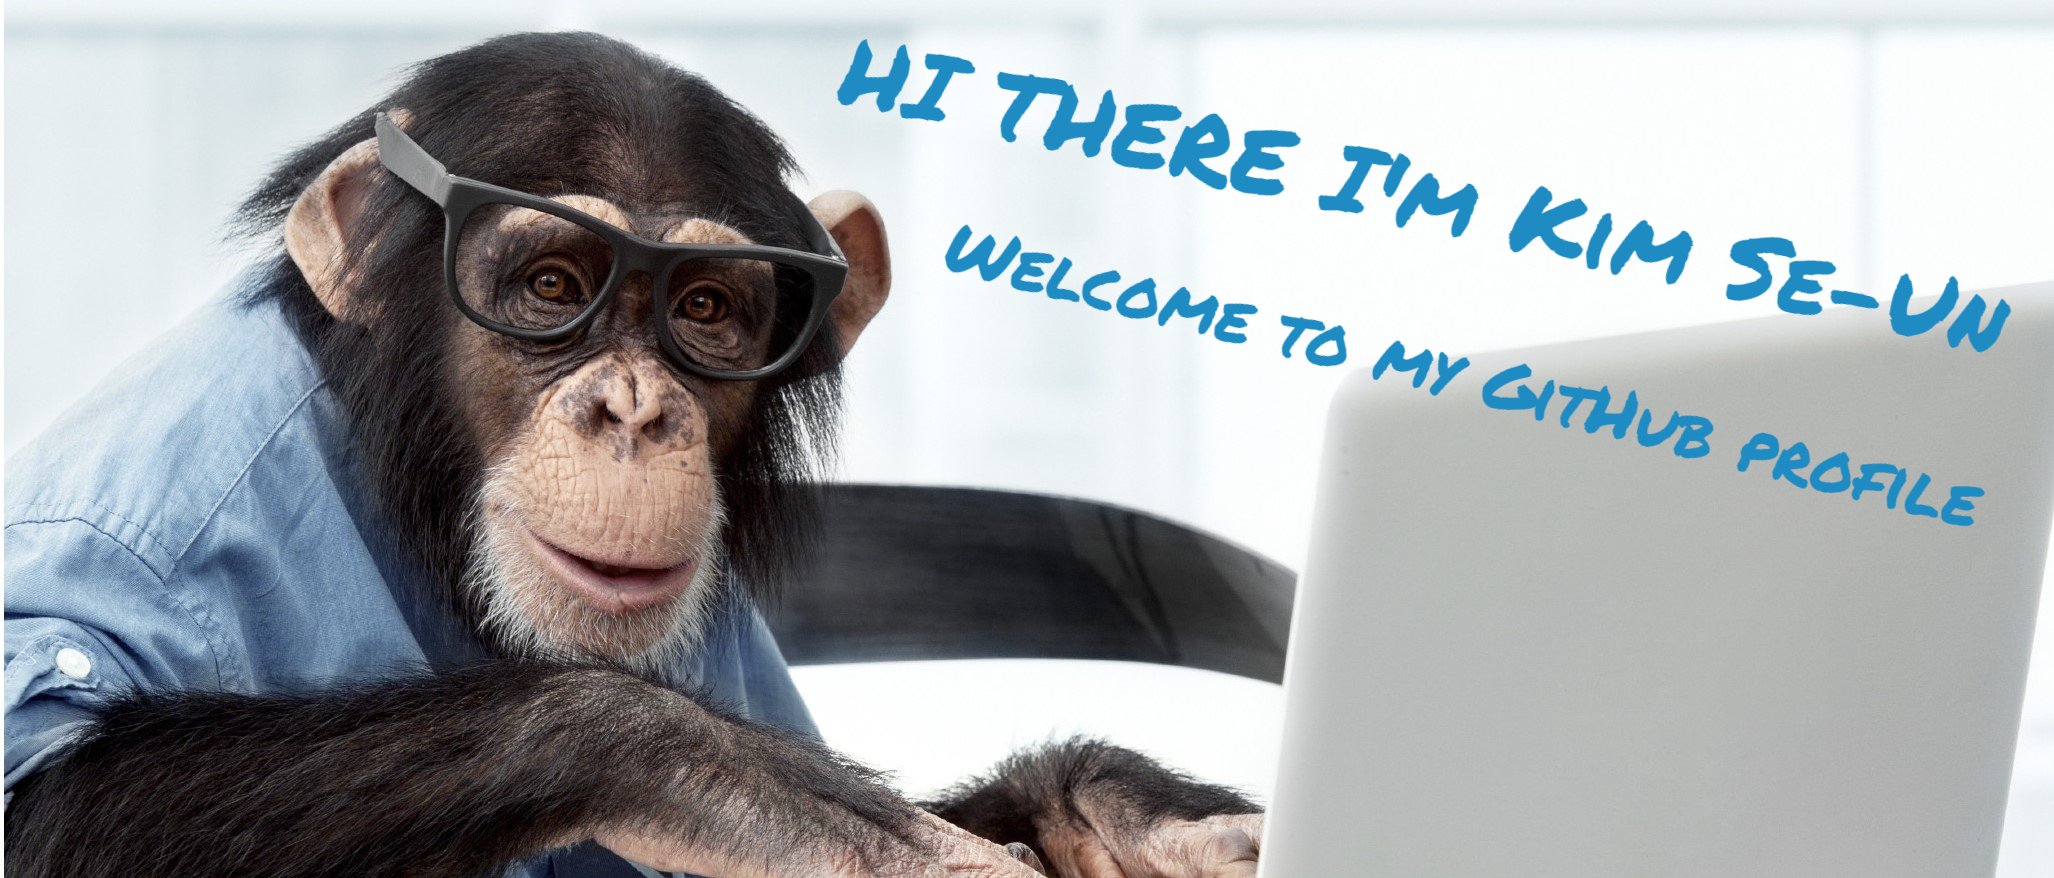
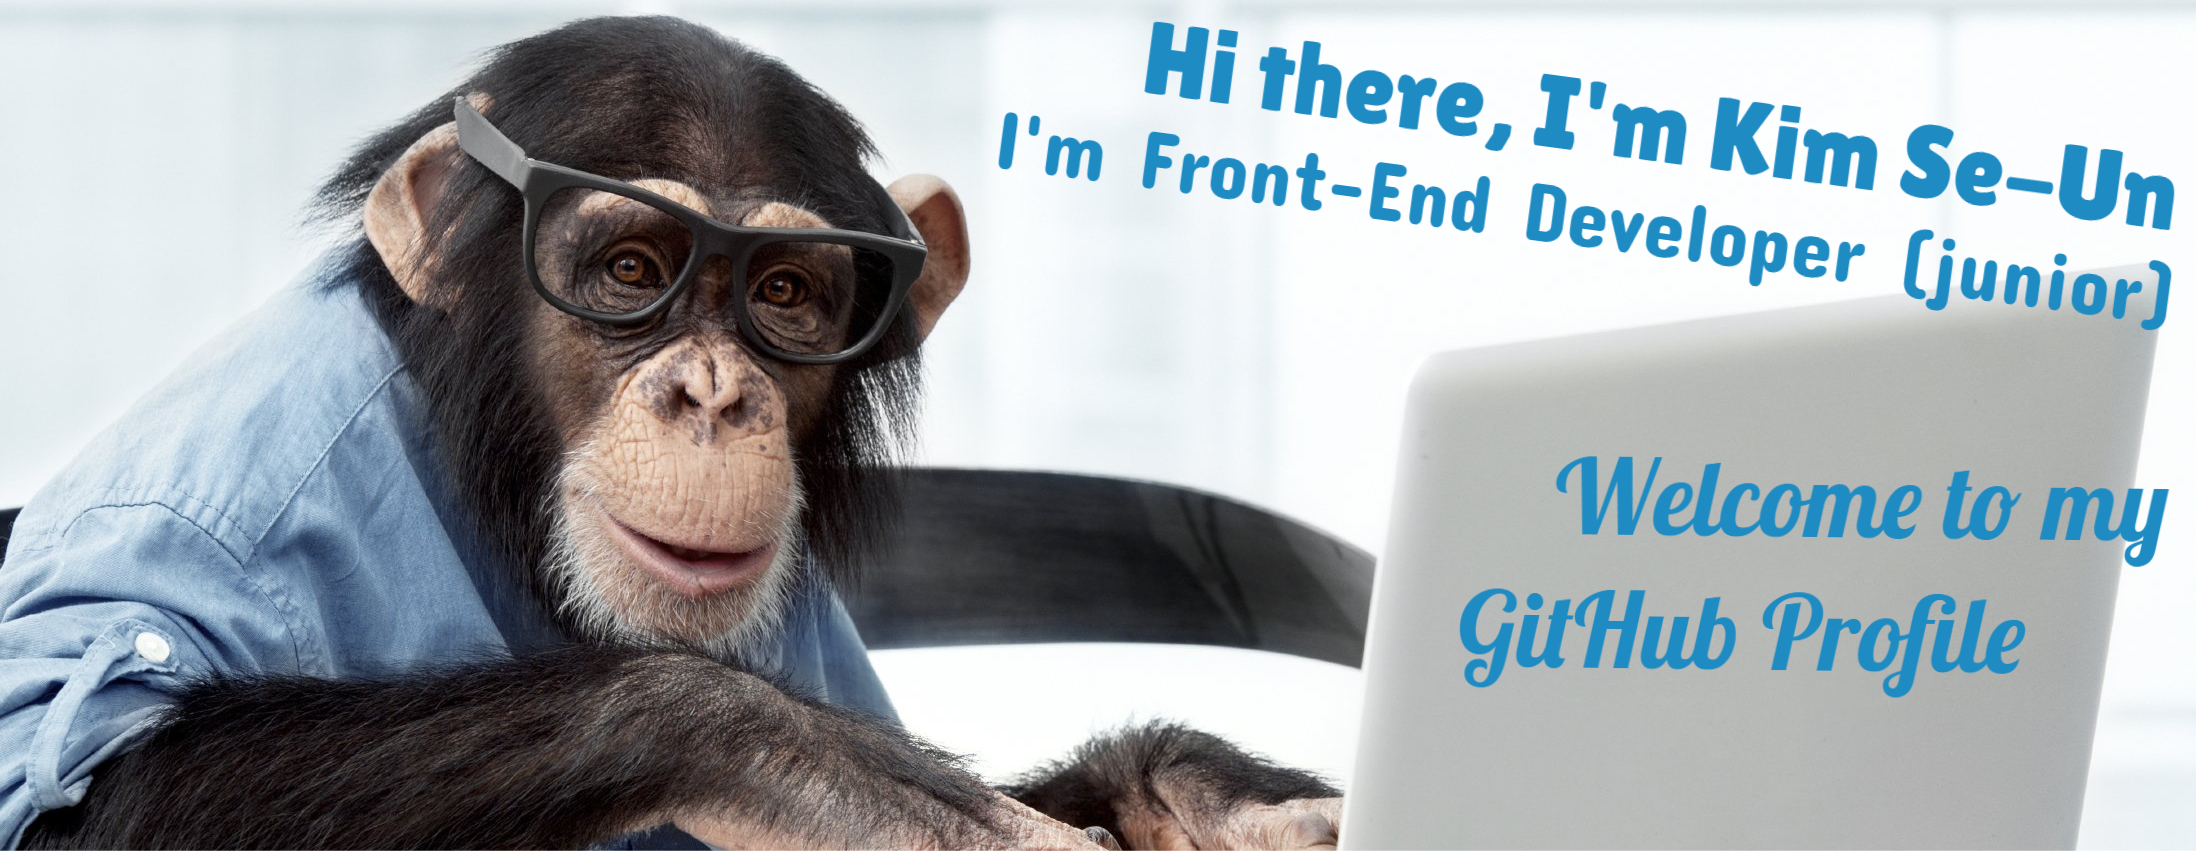
fix: make changes

diff --git a/README.md b/README.md
@@ -1,5 +1,4 @@
 <img src="./image/header.png" alt="theme">
-<h3 id="header" align="center"> I'm Front-End Developer (junior)</h3>
 
 ## About me: 
 * I'm currently learning programming
@@ -23,11 +22,16 @@
 </div>
 
 ## Statistics
+<div align="center">
+
 ![](http://github-profile-summary-cards.vercel.app/api/cards/profile-details?username=Se-Un&theme=github_dark)
 ![](http://github-profile-summary-cards.vercel.app/api/cards/repos-per-language?username=Se-Un&theme=github_dark)
 ![](http://github-profile-summary-cards.vercel.app/api/cards/most-commit-language?username=Se-Un&theme=github_dark)
 ![](https://github-profile-summary-cards.vercel.app/api/cards/stats?username=Se-Un&theme=github_dark)
 ![](http://github-profile-summary-cards.vercel.app/api/cards/productive-time?username=Se-Un&theme=github_dark&utcOffset=8)
+
+</div>
+
 
 <div id="contacts" align="center">
   <h1>Contact me:</h1>
